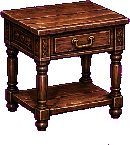
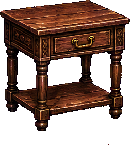
Remove magenta extraction fringes from train props

diff --git a/tools/production/build_train_prop_edges.py b/tools/production/build_train_prop_edges.py
@@ -1,0 +1,35 @@
+"""Remove extraction matte spill from train props without eroding silhouettes."""
+from pathlib import Path
+import numpy as np
+from PIL import Image, ImageFilter
+ROOT = Path(__file__).resolve().parents[2]
+SOURCE = ROOT / 'assets/sources/production/stages/night_train/rebuild/prop_edges'
+OUT = ROOT / 'assets/stages/night_train/rebuild'
+
+def clean_prop_edges(im):
+    a = np.array(im.convert('RGBA'))
+    rgb = a[:, :, :3].astype(float)
+    alpha = a[:, :, 3]
+    edge = np.array(Image.fromarray(alpha).filter(ImageFilter.MinFilter(5))) < 128
+    spill = np.minimum(rgb[:, :, 0]-rgb[:, :, 1], rgb[:, :, 2]-rgb[:, :, 1])
+    bad = edge & (alpha > 0) & (spill > 18)
+    # Replace only contaminated edge colour with nearby uncontaminated material.
+    # Alpha and registration remain exact; gold trim and white highlights survive.
+    good = (alpha > 200) & (spill <= 18)
+    for y, x in zip(*np.where(bad)):
+        y0,y1=max(0,y-3),min(a.shape[0],y+4)
+        x0,x1=max(0,x-3),min(a.shape[1],x+4)
+        ys,xs=np.where(good[y0:y1,x0:x1])
+        if len(xs):
+            k=np.argmin((ys+y0-y)**2+(xs+x0-x)**2)
+            a[y,x,:3]=rgb[ys[k]+y0,xs[k]+x0].astype('uint8')
+        else:
+            a[y,x,0]=max(0,rgb[y,x,0]-spill[y,x])
+            a[y,x,2]=max(0,rgb[y,x,2]-spill[y,x])
+    a[alpha==0,:3]=0
+    return Image.fromarray(a)
+
+def main():
+    for source in sorted(SOURCE.glob('prop_*.png')):
+        clean_prop_edges(Image.open(source)).save(OUT/source.name)
+if __name__ == '__main__':main()

diff --git a/tools/production/build_train_rebuild.py b/tools/production/build_train_rebuild.py
@@ -167,7 +167,9 @@ def main():
     im=Image.open(SOURCE/'props.png')
     for i,name in enumerate(['prop_nr_case','prop_nr_case_b','prop_nr_trolley','prop_nr_trolley_b','prop_nr_table','prop_nr_table_b','prop_nr_urn','prop_nr_urn_b','gate','fan','prop_nr_contraband','prop_nr_contraband_b']):
         if name=='fan':continue  # Ceiling fans are already painted into the coach art.
-        c=crop(cell(im,i));target=[100,100,148,148,130,130,70,70,120,72,114,114][i];c=c.resize((target,round(c.height*target/c.width)),Image.Resampling.NEAREST);c.save(OUT/(name+'.png'))
+        c=crop(cell(im,i));target=[100,100,148,148,130,130,70,70,120,72,114,114][i];c=c.resize((target,round(c.height*target/c.width)),Image.Resampling.NEAREST);
+        from build_train_prop_edges import clean_prop_edges
+        c=clean_prop_edges(c);c.save(OUT/(name+'.png'))
         if name=='prop_nr_contraband':c.resize((40,round(c.height*40/c.width)),Image.Resampling.NEAREST).save(OUT/'relic_vikram.png')
     im=Image.open(SOURCE/'train_exterior.png');out=Image.new('RGBA',(1024,896))
     cars=[]

diff --git a/AGENTS.md b/AGENTS.md
@@ -2,6 +2,7 @@
 
 - Use the built-in GPT Image tool for complex visual assets: characters, environments, vehicles, illustrated UI, and new animation poses. Match the existing CHAD sprites, penthouse materials, sunset skyline, proportions, and detailed arcade shading using actual project images as references.
 - Code is appropriate for motion, parallax, lighting, particles, simple readable UI, and processing generated art. Do not substitute primitive drawings for detailed production art. Keep simple fallback rendering for missing assets.
+- Remove extraction-colour fringes from transparent props and actors before registration; inspect edges on dark and light backgrounds without eroding silhouettes or highlights.
 - Animation sheets need consistent identity, anatomy, scale, camera, lighting, and stable registration between poses. Generate the poses with GPT Image; crop and align them with processing tools. Inspect every frame and play the animation at game scale before accepting it.
 - Review changed scenes in Chrome at the 480×270 logical size and 2× display size. Use the frame explorer or deterministic capture tools to check transitions and occlusion.
 - Reuse the existing licensed Streets of Rage 2 effects and Duke voice samples where the action suits them. Audition with sfxlab.html, avoid overlapping or repetitive quotes, and preserve pause/exit behavior. Simple synthesized machinery and chimes are suitable when they sound convincing. The user has stated they have rights to the supplied sound banks.
